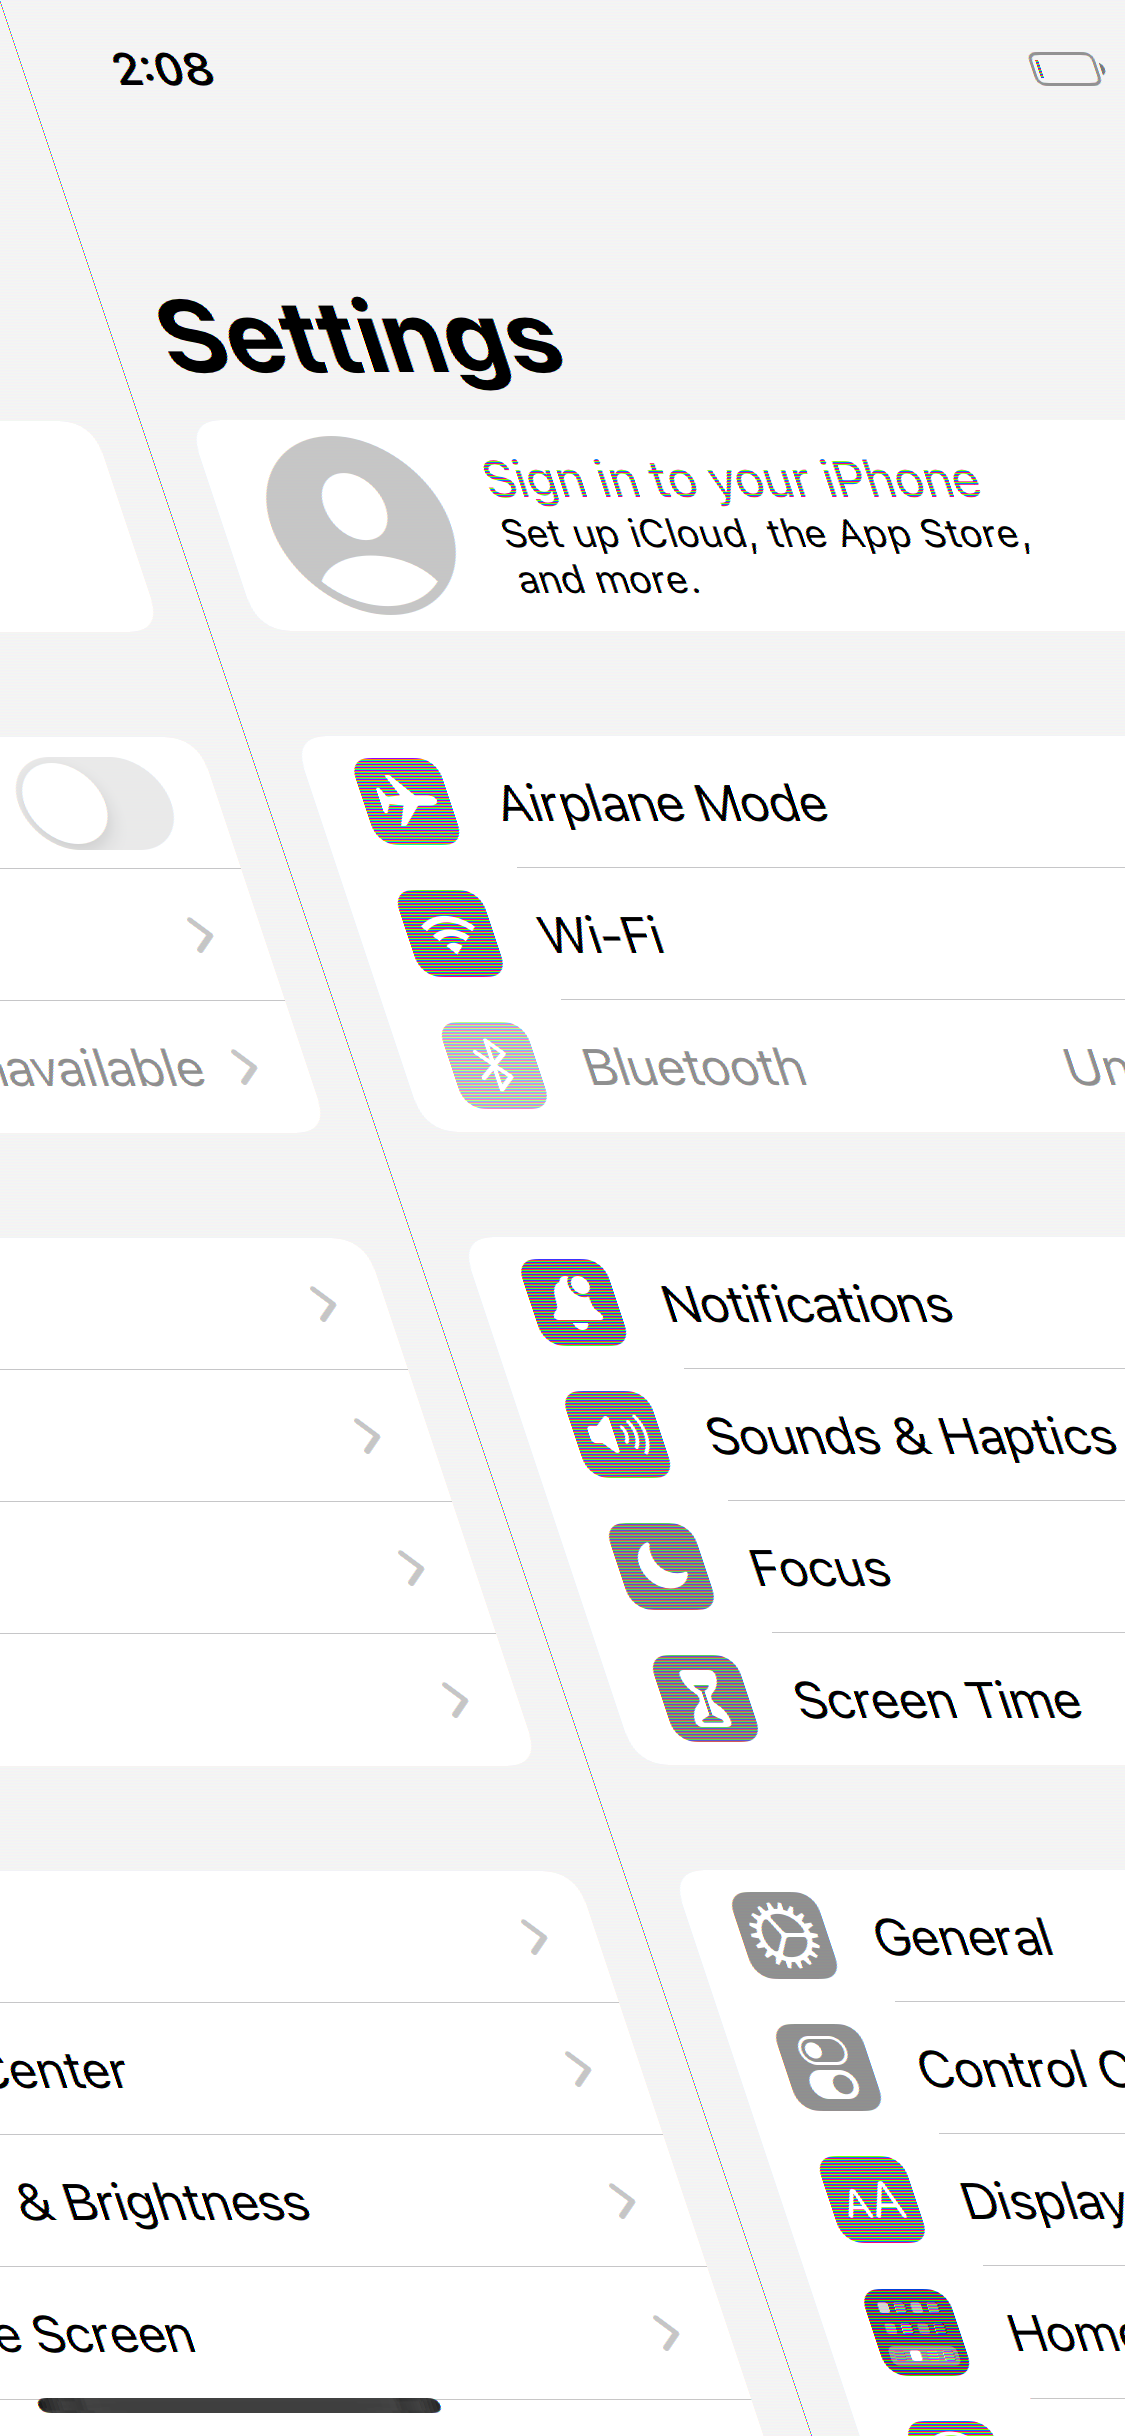
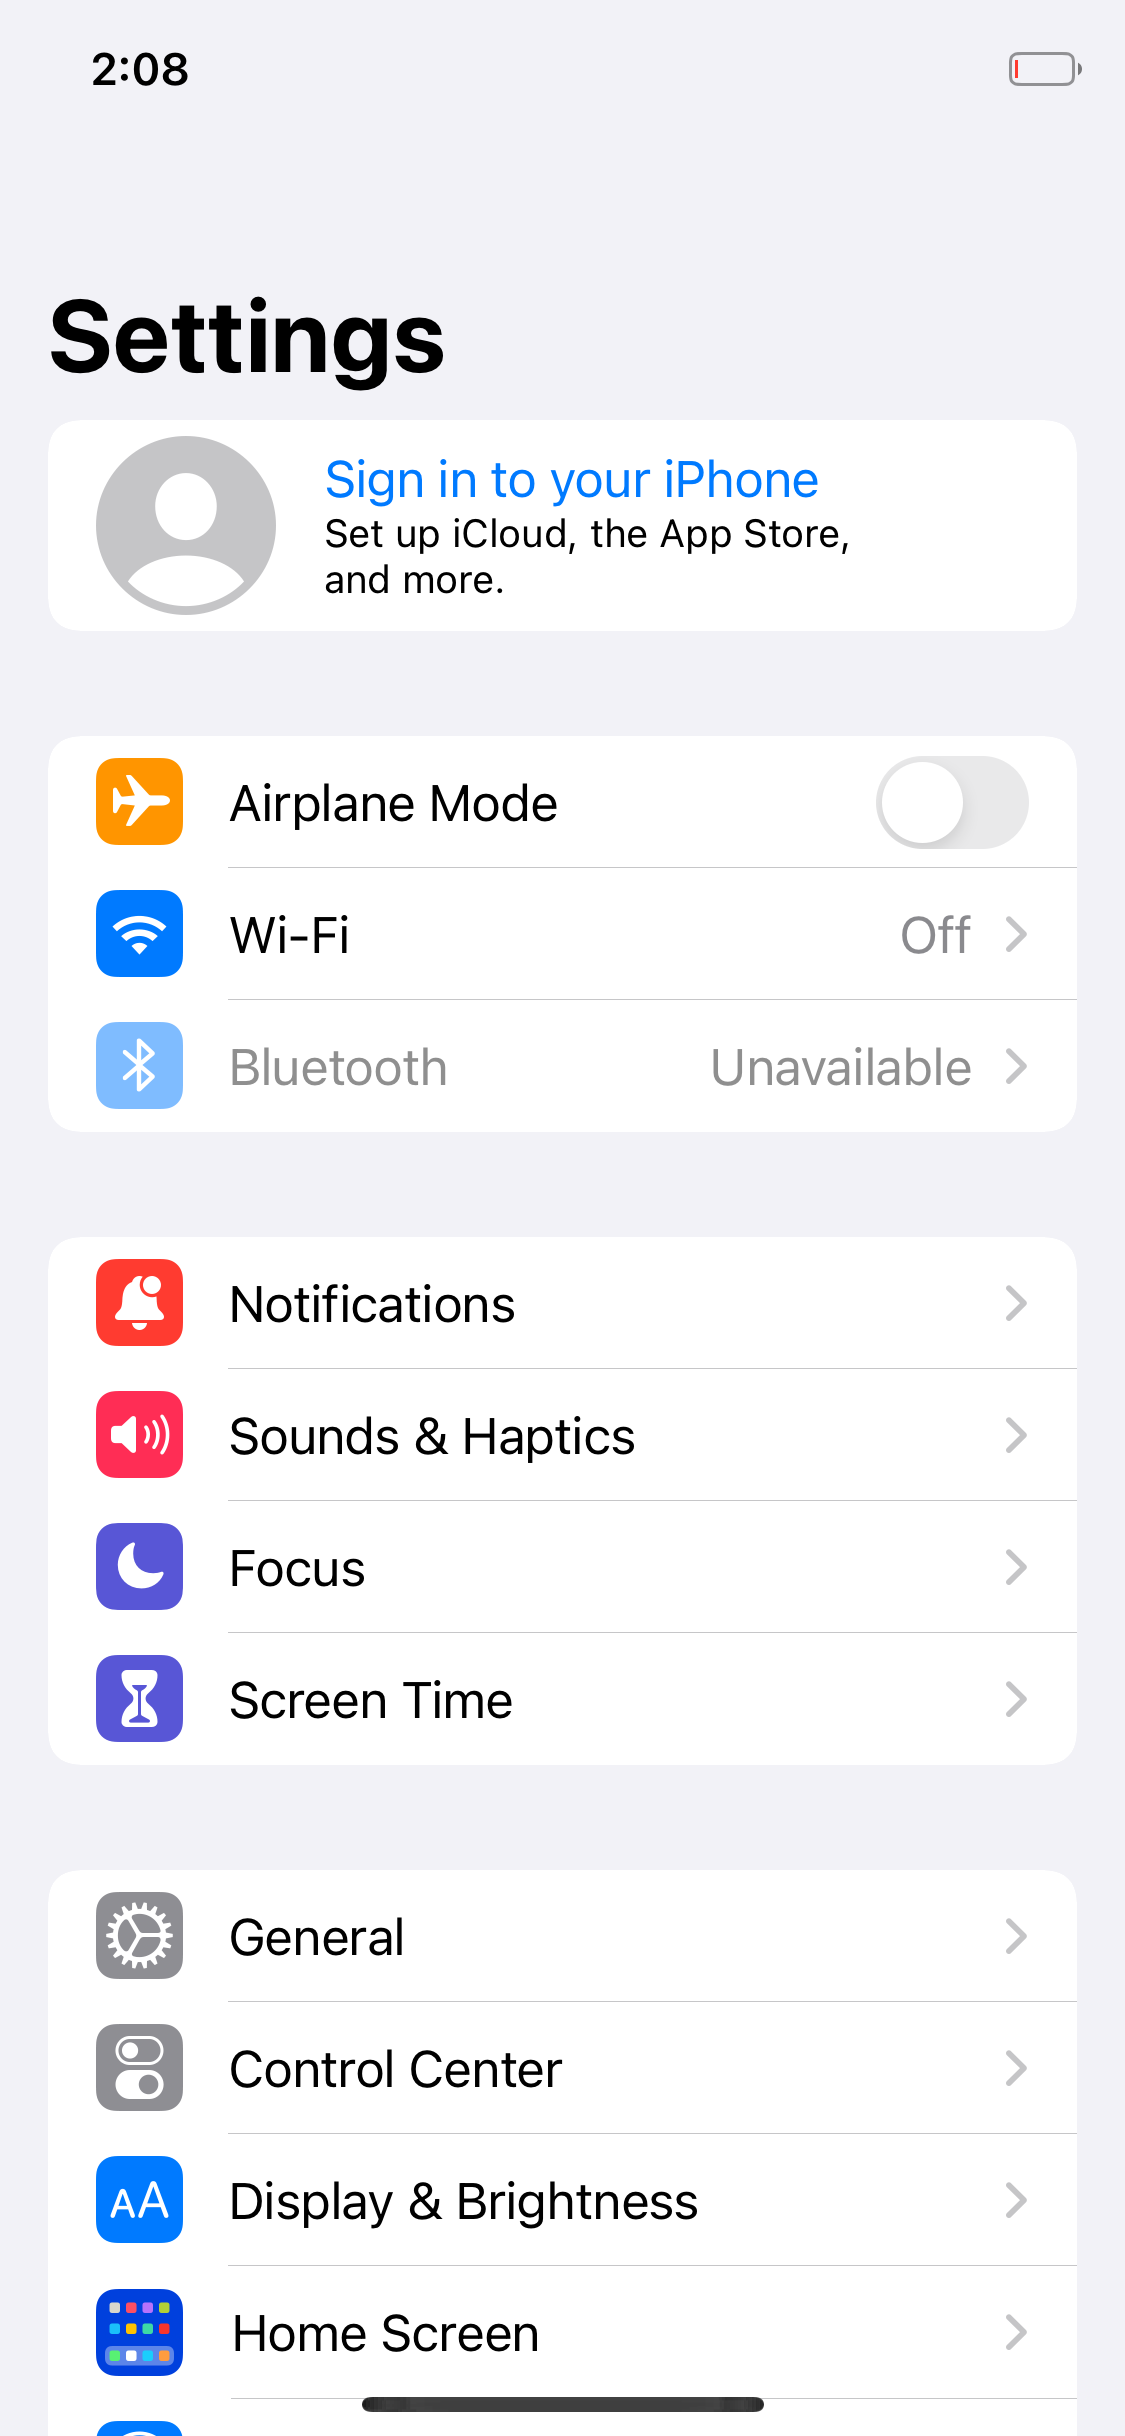
tools(qemu): the console surface is live; the PPM row stride was stale
The previous note concluded that QEMU's ramfb surface was a copy taken at the first mode set, because
a magenta probe in 0x33b9eb000 never appeared in a screendump and later screendumps did not change.
Both were artefacts of reading QEMU's PPM as if it were packed RGB.

ppm_save() writes pixman_image_get_stride(linebuf) bytes per row. For a 1125-pixel wide RGB image
that is 3376, not 1125 * 3 = 3375, and P6 has no padding. Every row therefore starts one byte early
and 2436 rows later the picture is sheared -- a diagonal wipe that reads as a frame from the Settings
slide-in. The bytes never changed because the settled page behind the shear never changed.

Read with the stride QEMU actually wrote, panel_probe.py shows the surface is a live view:

  screendump vs guest framebuffer: 0 differing pixels (the whole 1125 x 2436 frame);
  a 120 x 120 magenta probe at (40, 40): 14,400 of 14,400 magenta, 0 other pixels differ;
  after restoring the framebuffer: 0 differing pixels.

tools/screendump.sh and panel_run.py now detect and drop the padding (tools/qemu/screendump.sh and
webvnc.py already did). panel_run.py also writes panel.png from the PPM. docs/demo/
glwire-settings-panel.png was the sheared read and is replaced by the same moment read correctly;
docs/demo/panel-probe.png and -crop.png are the probe. tools/qemu/qemu-ppm-stride.patch is the
one-line QEMU fix (write width * 3); it applies cleanly to 8.2.2 with patch -p1 --dry-run. The
[…]

diff --git a/tools/glwire/panel_probe.py b/tools/glwire/panel_probe.py
@@ -1,0 +1,144 @@
+#!/usr/bin/env python3
+"""panel_probe.py -- prove that QEMU's console surface follows the guest framebuffer.
+
+The last research note said the console surface was a copy taken at the first mode set, because a
+magenta probe written into the panel never appeared in a screendump. It did appear: QEMU's PPM
+writer emits `pixman_image_get_stride` bytes per row, which for a 1125-pixel wide RGB image is 3376
+bytes (one padding byte), not 1125 * 3 = 3375. Every reader that assumed packed RGB got a sheared
+picture -- one that looks like a frame from the middle of a slide-in animation -- and wrote the
+wrong conclusion down.
+
+This script treats the picture the way QEMU writes it, then checks it against the guest's own
+framebuffer in the RAM file at three moments:
+
+    1. the settled screen, before anything is written:  every pixel equal;
+    2. after a magenta rectangle is written into the guest framebuffer: the rectangle is magenta in
+       the screendump, every other pixel still equal;
+    3. after the rectangle is restored: every pixel equal again.
+
+    ./panel_probe.py <ram.img> [--base 0x33b9eb000] [--qmp 4445] [--out DIR]
+
+The machine may be running or paused; pausing before the run keeps the guest from drawing over the
+probe. Nothing is restarted.
+"""
+import argparse
+import json
+import mmap
+import os
+import socket
+import time
+
+import numpy as np
+from PIL import Image
+
+RAMP = 0x40000000
+W, H = 1125, 2436
+
+
+def qmp(port, commands):
+    s = socket.create_connection(("127.0.0.1", port), timeout=20)
+    f = s.makefile("rwb", buffering=0)
+    f.readline()                     # the greeting
+
+    def call(obj):
+        f.write((json.dumps(obj) + "\n").encode())
+        while True:
+            line = f.readline()
+            if not line:
+                raise SystemExit("panel_probe: QMP closed")
+            message = json.loads(line)
+            if "return" in message or "error" in message:
+                return message
+
+    call({"execute": "qmp_capabilities"})
+    out = [call(c) for c in commands]
+    s.close()
+    return out
+
+
+def screendump(port, path):
+    qmp(port, [{"execute": "screendump", "arguments": {"filename": path}}])
+    for _ in range(50):
+        if os.path.exists(path) and os.path.getsize(path) > 0:
+            break
+        time.sleep(0.1)
+    return path
+
+
+def read_ppm(path):
+    """QEMU's P6, with its one padding byte (the pixman line stride, not width * 3) per row."""
+    data = open(path, "rb").read()
+    magic, size, maxval, pixels = data.split(b"\n", 3)
+    assert magic == b"P6" and maxval == b"255", "not an 8-bit P6"
+    width, height = map(int, size.split())
+    stride = len(pixels) // height
+    assert stride >= width * 3, "a PPM row is shorter than its pixels"
+    packed = np.frombuffer(pixels[:stride * height], dtype=np.uint8).reshape(height, stride)
+    return packed[:, :width * 3].reshape(height, width, 3), stride
+
+
+def framebuffer(ram, base):
+    offset = base - RAMP
+    return np.ndarray((H, W, 4), dtype=np.uint8, buffer=ram, offset=offset)
+
+
+def compare(rgb, bgra):
+    """RGB from the PPM against BGRA from the guest; returns per-pixel differing count."""
+    guest = bgra[:, :, [2, 1, 0]]
+    return int(np.any(rgb != guest, axis=2).sum())
+
+
+def main():
+    ap = argparse.ArgumentParser()
+    ap.add_argument("ram")
+    ap.add_argument("--base", type=lambda v: int(v, 0), default=0x33B9EB000)
+    ap.add_argument("--qmp", type=int, default=4445)
+    ap.add_argument("--out", default="docs/demo")
+    ap.add_argument("--probe", default="40,40,120,120", help="x,y,w,h")
+    args = ap.parse_args()
+    os.makedirs(args.out, exist_ok=True)
+    x, y, pw, ph = (int(v) for v in args.probe.split(","))
+
+    file = open(args.ram, "r+b")
+    ram = mmap.mmap(file.fileno(), 0, access=mmap.ACCESS_WRITE)
+    if framebuffer(ram, args.base).shape != (H, W, 4):
+        raise SystemExit("panel_probe: the framebuffer is not in this RAM file")
+
+    print("panel_probe: 1. the settled screen", flush=True)
+    before = read_ppm(screendump(args.qmp, "/tmp/panel_probe_before.ppm"))[0]
+    fb = framebuffer(ram, args.base)
+    diff = compare(before, fb)
+    print("panel_probe:    screendump vs guest framebuffer: %d differing pixels" % diff)
+    Image.fromarray(before).save(os.path.join(args.out, "panel-before.png"))
+
+    print("panel_probe: 2. a magenta rectangle at %d,%d %dx%d" % (x, y, pw, ph), flush=True)
+    saved = fb[y:y + ph, x:x + pw].copy()
+    fb[y:y + ph, x:x + pw] = (255, 0, 255, 255)       # B, G, R, A = magenta
+    ram.flush()
+    after = read_ppm(screendump(args.qmp, "/tmp/panel_probe_after.ppm"))[0]
+    box = after[y:y + ph, x:x + pw]
+    magenta = int(np.all(box == (255, 0, 255), axis=2).sum())
+    masked = after.copy()
+    masked[y:y + ph, x:x + pw] = before[y:y + ph, x:x + pw]
+    rest = int(np.any(masked != before, axis=2).sum())
+    print("panel_probe:    magenta pixels in the screendump: %d of %d; other differing pixels: %d" %
+          (magenta, pw * ph, rest))
+    Image.fromarray(after).save(os.path.join(args.out, "panel-probe.png"))
+    Image.fromarray(after[y:y + ph, x:x + pw]).resize((pw, ph)).save(
+        os.path.join(args.out, "panel-probe-crop.png"))
+
+    print("panel_probe: 3. restoring the framebuffer", flush=True)
+    fb[y:y + ph, x:x + pw] = saved
+    ram.flush()
+    restored = read_ppm(screendump(args.qmp, "/tmp/panel_probe_restored.ppm"))[0]
+    rest2 = compare(restored, framebuffer(ram, args.base))
+    print("panel_probe:    after restore: %d differing pixels" % rest2)
+
+    ok = diff == 0 and magenta == pw * ph and rest == 0 and rest2 == 0
+    print("panel_probe: %s" % ("PASS: the console surface is live" if ok else "FAIL"))
+    ram.close()
+    file.close()
+    return 0 if ok else 1
+
+
+raise SystemExit(main())

diff --git a/tools/glwire/panel_run.py b/tools/glwire/panel_run.py
@@ -56,6 +56,26 @@ def tap(x, y):
     qmp(events)
 
 
+def ppm_to_png(ppm, png):
+    """QEMU's P6 rows are pixman's stride (width * 3 rounded up), not packed RGB."""
+    data = open(ppm, "rb").read()
+    fields, pos = [], 0
+    while len(fields) < 4:
+        while data[pos:pos + 1].isspace():
+            pos += 1
+        start = pos
+        while not data[pos:pos + 1].isspace():
+            pos += 1
+        fields.append(data[start:pos])
+    pos += 1
+    width, height = int(fields[1]), int(fields[2])
+    pixels = data[pos:]
+    stride = len(pixels) // height
+    rows = b"".join(pixels[y * stride:y * stride + width * 3] for y in range(height))
+    Image.frombytes("RGB", (width, height), rows).save(png)
+    return width, height
+
+
 class Frog:
     def __init__(self, path, base):
         self.file = open(path, "rb")
@@ -190,6 +210,8 @@ def main():
     # 5. what the display device itself has
     r = qmp([{"execute": "screendump", "arguments": {"filename": os.path.join(args.out, "panel.ppm")}}])
     print("panel_run: screendump", r, flush=True)
+    print("panel_run: panel.png", *ppm_to_png(os.path.join(args.out, "panel.ppm"),
+                                              os.path.join(args.out, "panel.png")), flush=True)
     print("panel_run: the machine is paused at %#x; pictures in %s" % (base, args.out), flush=True)
 
 
